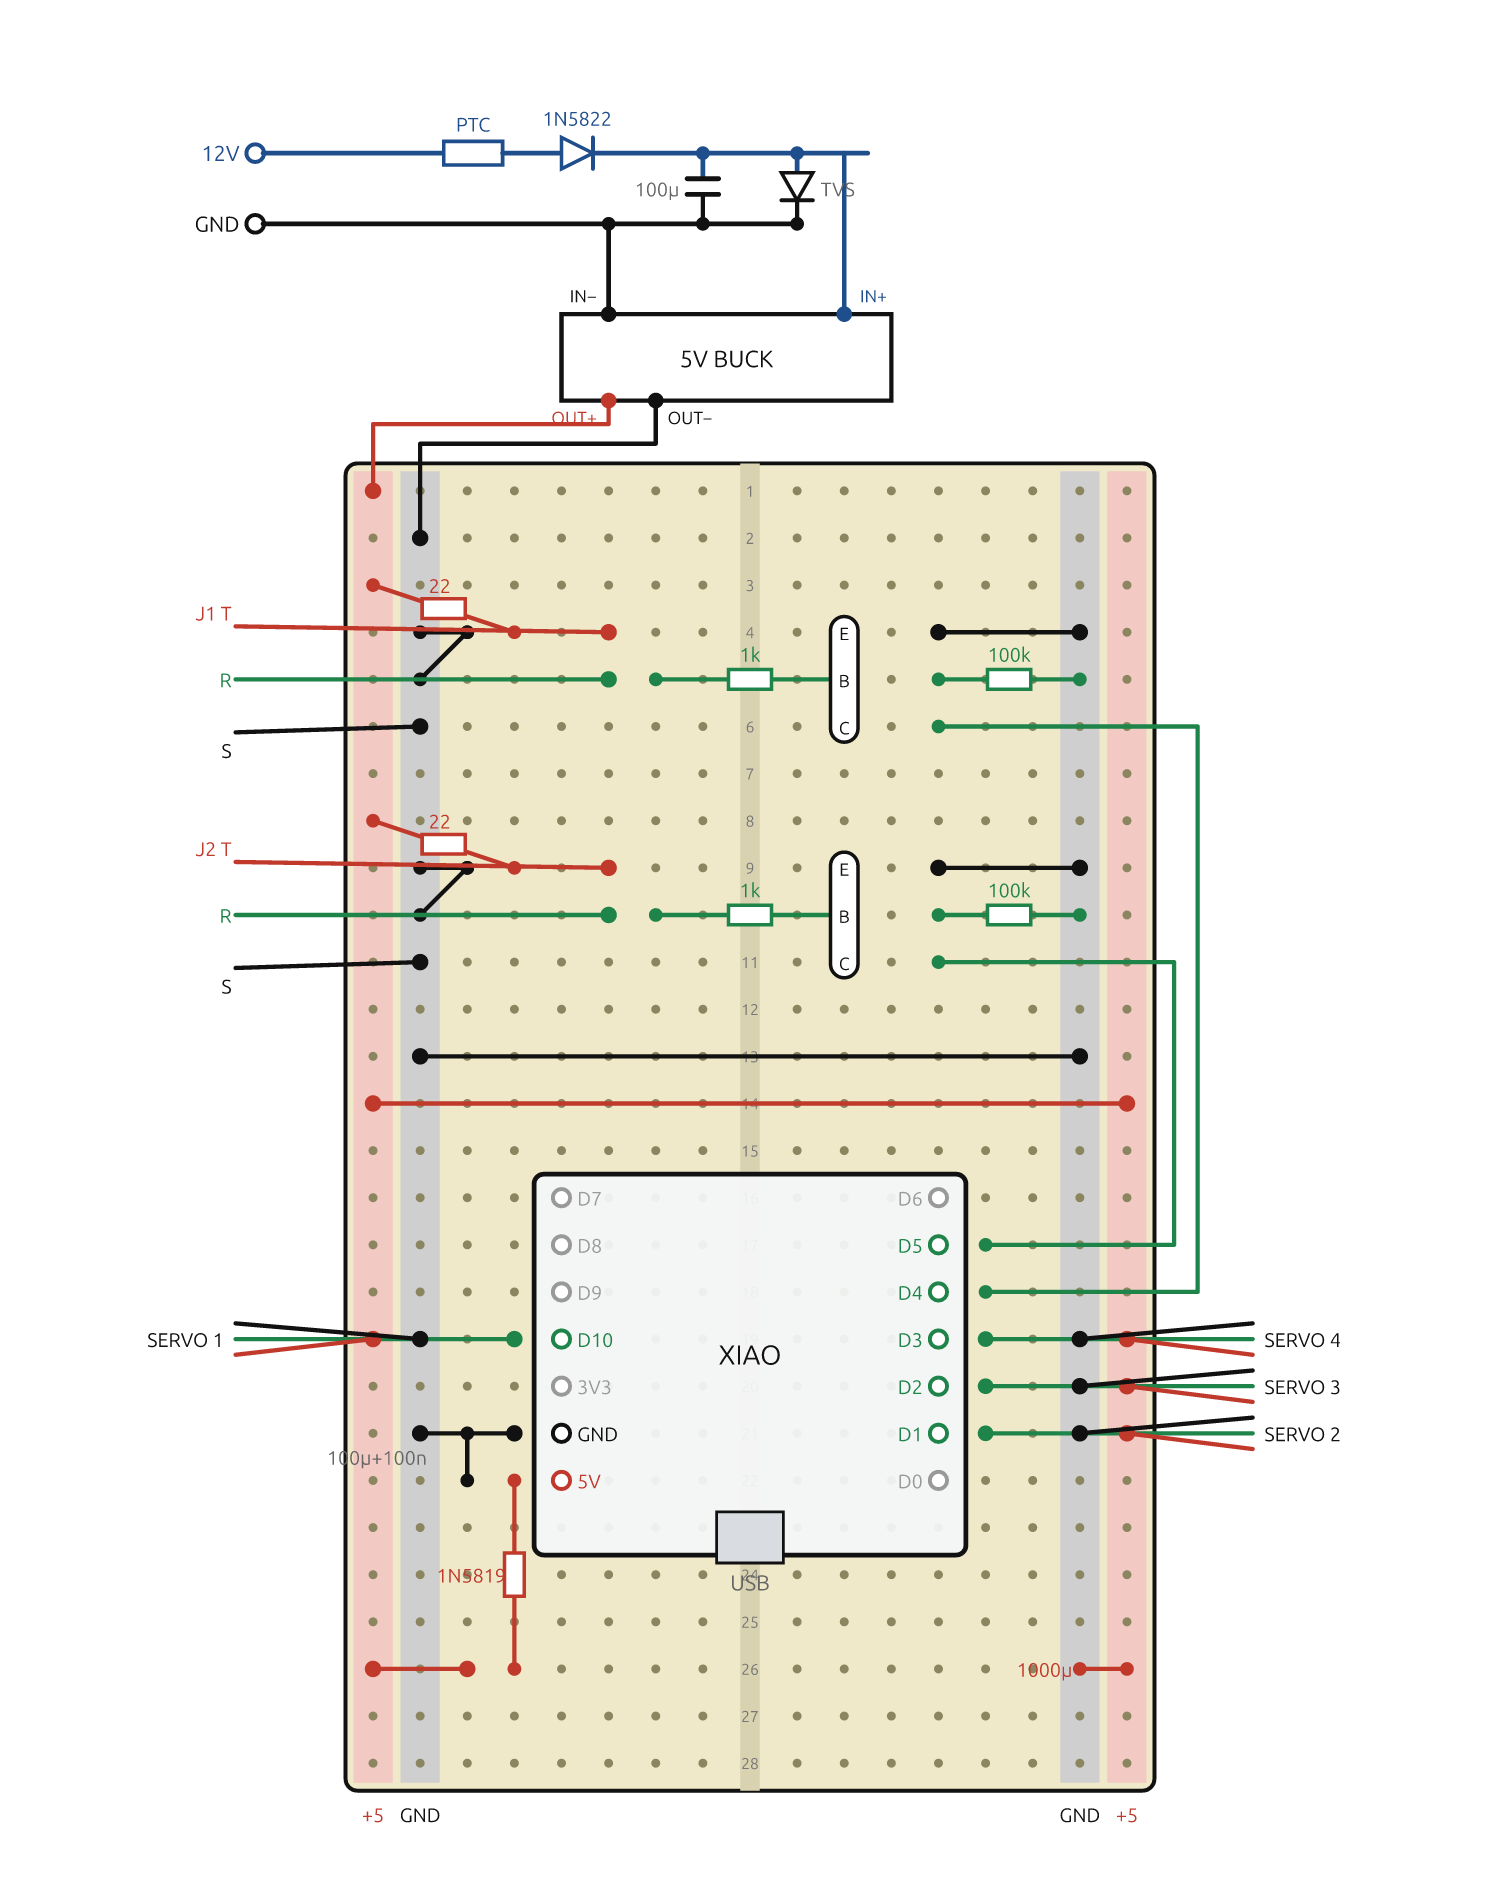
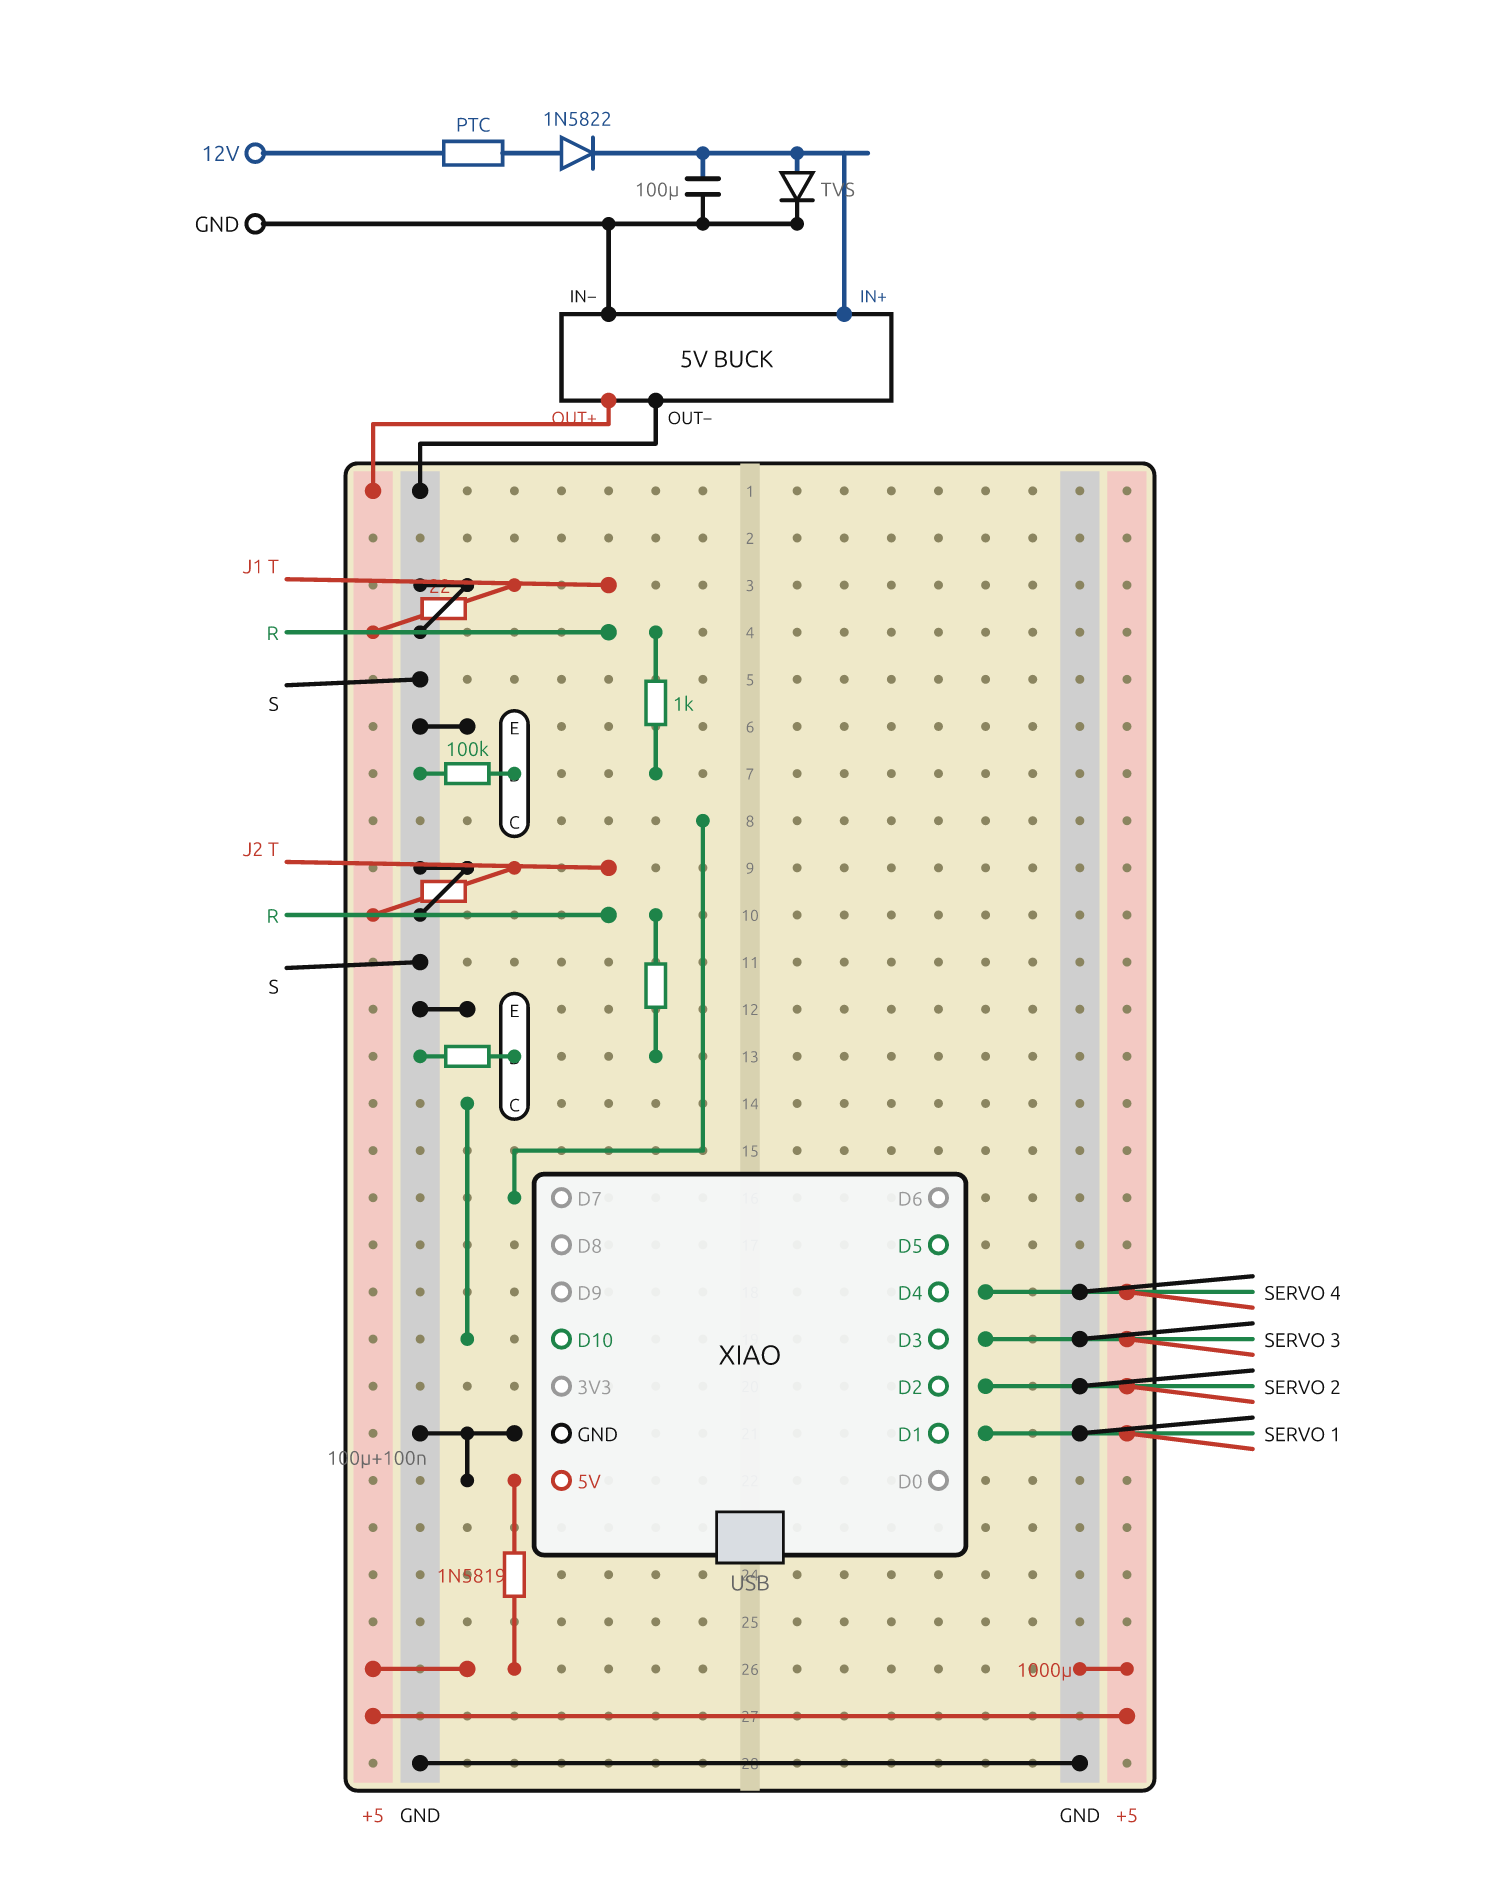
jaw: servos on D1..D4, sensors on D7 and D10 so each kind sits on its own edge; redraw the board layout

diff --git a/docs/08-servo-board.md b/docs/08-servo-board.md
@@ -5,7 +5,7 @@ suggestions to check against their datasheets, not tested parts. Measured figure
 and come from `docs/07-servo-s51.md` and the bench on 2026-11-15.
 
 The board carries a XIAO ESP32C3 running `firmware/jaw/` and up to **4 servos** (channels 1..4 on
-D10, D1, D2, D3). It is fed from a **12 V power brick or the TalentCell 12 V battery**, whichever
+D1, D2, D3, D4). It is fed from a **12 V power brick or the TalentCell 12 V battery**, whichever
 is available, and makes its own 5 V.
 
 ---
@@ -69,17 +69,18 @@ One **3-pin 0.1" male header per servo**, in the S51's own order so the servo pl
 
 | Channel | XIAO silkscreen | GPIO |
 |---|---|---|
-| 1 | D10 | GPIO10 |
-| 2 | D1 | GPIO3 |
-| 3 | D2 | GPIO4 |
-| 4 | D3 | GPIO5 |
+| 1 | D1 | GPIO3 |
+| 2 | D2 | GPIO4 |
+| 3 | D3 | GPIO5 |
+| 4 | D4 | GPIO6 |
 | *never* | D0, D8, D9 | GPIO2, 8, 9 — strapping, see CLAUDE.md |
 
 3.3 V signals drive the S51 directly (measured); no level shifter. A 100–330 Ω series resistor on
 each signal is optional protection. There are **no per-servo pull-downs or caps**: the pull-downs did not stop the boot twitch when tried, and the one bulk cap serves all four servos.
 
-D4 and D5 (GPIO6, 7) are the two sensor inputs (§7). D6/D7 are the UART pins and are left unused:
-the chip prints boot messages on one of them.
+D7 (GPIO20) and D10 (GPIO10) are the two sensor inputs (§7), on the opposite edge of the XIAO from the
+servos. D7 is the UART receive pin and is free because the board talks over USB. D5 and D6 are unused (D6 is
+the UART transmit pin and prints boot messages).
 
 ## 4. Before first power
 
@@ -137,7 +138,7 @@ before ordering.**
 
 ---
 
-## 7. Two sensor ports (D4, D5)
+## 7. Two sensor ports (D7, D10)
 
 Same port as the SFX Box's (`SFX box/sfx-box-wiring.md`, "Sensor daughter board"), so the same
 sensor plugs into either: **3.5 mm stereo jack, Tip = +5 V, Ring = signal, Sleeve = GND.** A Neumi
@@ -158,7 +159,7 @@ the same (n, state, seq). The bridge needs no change: it already prints anything
 tagged `jaw>`. `sens` reads the two inputs back (`sens 1=0 2=0`) and `st` carries `sens=00`.
 **Not done:** the SFX Box does not yet read unsolicited `ev` lines or offer them as triggers.
 
-Bench test without the circuit: the pins idle HIGH, so touching a wire from D4 or D5 to GND
+Bench test without the circuit: the pins idle HIGH, so touching a wire from D7 or D10 to GND
 looks like motion.
 
 Parts for the two ports (copied from the SFX Box's list, per port): 1 × 3.5 mm stereo jack, 1 ×
@@ -177,10 +178,11 @@ the layout is relative to the XIAO, so a column or two of difference only shifts
 - About 28 rows. Rows are numbered from the top in the drawing.
 - Rails: **inner strip (next to the holes) = GND, outer strip = +5 V**, on both sides.
 
-**Why the XIAO is turned so the USB end points at the bottom:** the signal pins D1–D5 then land on the right
-half, next to the right rail, with free holes beside each pin. D10, 5V and GND land on the left half next to
-the left rail. Rotate the whole board 180° in the box if the USB end should face elsewhere; the design is
-mirror-symmetric in what it needs.
+**Why the XIAO is turned so the USB end points at the bottom:** the four servo pins D1–D4 are on one edge of
+the XIAO and the two sensor pins D7 and D10 are on the other. Turned this way the servos land on the right
+half, beside the right rail, and the sensor circuits and jacks sit on the left half beside the left rail, so
+each side of the box has one kind of connector. Rotate the whole board 180° in the box if the USB end should
+face elsewhere; the design is mirror-symmetric in what it needs.
 
 **XIAO position:** left pins in left-half column 3, right pins in right-half column 10, rows 16–22. Holes
 at left columns 1–2 and right columns 11–12 stay free beside the pins. Rows above row 15 and below row 23
@@ -188,12 +190,12 @@ are free across both halves.
 
 | Rows | Left pin | Right pin |
 |---|---|---|
-| 16 | D7 (unused) | D6 (unused) |
-| 17 | D8 (avoid) | **D5** sensor 2 |
-| 18 | D9 (avoid) | **D4** sensor 1 |
-| 19 | **D10** servo 1 | **D3** servo 4 |
-| 20 | 3V3 (unused) | **D2** servo 3 |
-| 21 | GND | **D1** servo 2 |
+| 16 | **D7** sensor 1 | D6 (unused) |
+| 17 | D8 (avoid) | D5 (unused) |
+| 18 | D9 (avoid) | **D4** servo 4 |
+| 19 | **D10** sensor 2 | **D3** servo 3 |
+| 20 | 3V3 (unused) | **D2** servo 2 |
+| 21 | GND | **D1** servo 1 |
 | 22 | 5V | D0 (avoid) |
 
 ### Hole list (row, side-column; `L`/`R` = left/right half, rail = `L5 LG R5 RG`)
@@ -203,33 +205,34 @@ buck is the only thing between them: barrel jack + → PTC fuse → 1N5822 (band
 with the 100 µF 25 V and the TVS (P6KE15A, band to +) from that node to GND, and jack GND → buck IN−. Build
 it on the buck's own bit of board or wire it point to point. Nothing from this chain goes on the SB400 board.
 
-**5 V side, on the board** (rows 1–3 are now spare)
+**5 V side, on the board** (rows 1–2 are spare)
 
 | Part | From | To |
 |---|---|---|
-| Buck OUT+ / OUT− | L5 rail row 1 | LG rail row 2 |
-| Bridge GND | LG row 13 | RG row 13 |
-| Bridge +5 V | L5 row 14 | R5 row 14 |
+| Buck OUT+ / OUT− | L5 rail row 1 | LG rail row 1 |
+| Bridge +5 V (wire) | L5 rail row 27 | R5 rail row 27 |
+| Bridge GND (wire) | LG rail row 28 | RG rail row 28 |
 | 1000 µF 10 V+ (+ to outer rail) | R5 rail row 26 | RG rail row 26 |
 
 Bridge the rails with wire, not just the strips: four stalled servos draw about 1.9 A.
 
-**Sensor ports.** Same circuit twice. Port 1 uses rows 4–6 (base row 5); port 2 uses rows 9–11 (base row 10).
-Values below are for port 1; add 5 rows for port 2.
+**Sensor ports, all on the left half.** Same circuit twice. Port 1 uses rows 3–8 and goes to **D7**; port 2 uses
+rows 9–14 and goes to **D10**. Values below are for port 1; add 6 rows for port 2 (tip row 9, ring row 10, and so on).
 
 | Part | From | To |
 |---|---|---|
-| 22 Ω | L5 rail row 3 | L4 col 2 |
-| 4.7 µF (+ to the row) | L4 col 1 | LG rail row 4 |
-| 100 nF | L4 col 1 | LG rail row 5 |
-| Jack tip wire | L4 col 4 | |
-| Jack ring wire | L5 col 4 | |
-| Jack sleeve wire | LG rail row 6 | |
-| 1 kΩ (straddles the channel) | L5 col 5 | R5 col 8 |
-| 2N3904, flat face toward the left, standing in right col 9 | emitter R4, base R5, collector R6 | |
-| Emitter jumper | R4 col 10 | RG rail row 4 |
-| 100 kΩ | R5 col 10 | RG rail row 5 |
-| Collector wire (insulated, around the outside of the rails) | R6 col 10 | **D4** at R18 col 11 (port 2: R11 col 10 to **D5** at R17 col 11) |
+| 22 Ω | L5 rail row 4 | L row 3, col 2 |
+| 4.7 µF (+ to the row) | L3 col 1 | LG rail row 3 |
+| 100 nF | L3 col 1 | LG rail row 4 |
+| Jack tip wire | L3 col 4 | |
+| Jack ring wire | L4 col 4 | |
+| Jack sleeve wire | LG rail row 5 | |
+| 1 kΩ (lies along the column, 0.3–0.4") | L4 col 5 | L7 col 5 |
+| 2N3904, flat face toward the left, standing in col 3 | emitter L6, base L7, collector L8 | |
+| Emitter jumper | L6 col 1 | LG rail row 6 |
+| 100 kΩ | L7 col 2 | LG rail row 7 |
+| Collector wire (insulated, lies over the board) | L8 col 6, down col 6 to row 15, left along row 15 to col 2 | L16 col 2 (next to **D7**) |
+| Port 2 collector wire | L14 col 1, straight down col 1 | L19 col 1 (next to **D10**) |
 
 **XIAO power and servos**
 
@@ -239,9 +242,8 @@ Values below are for port 1; add 5 rows for port 2.
 | 1N5819 (band to the XIAO) | cathode L22 col 2 | anode L26 col 2 |
 | Anode jumper | L26 col 1 | L5 rail row 26 |
 | 100 µF (+ to row 22) and 100 nF | L22 col 1 | L21 col 1 |
-| Servo 1: signal / + / − | L19 col 2 / L5 rail row 19 / LG rail row 19 | |
-| Servos 2, 3, 4: signal | R21 col 11 / R20 col 11 / R19 col 11 | |
-| Servos 2, 3, 4: + / − | R5 rail / RG rail, same row as the signal | |
+| Servos 1, 2, 3, 4: signal | R21 / R20 / R19 / R18, col 11 | |
+| Servos 1–4: + / − | R5 rail / RG rail, same row as the signal | |
 
 **Soldering order that keeps things reachable:** rails and bridge wires, then the two sensor circuits, then the diode and caps beside the XIAO, then the XIAO last (it covers the
 holes under it). Meter each rail for continuity to the far end, and meter across the channel on a spare row

diff --git a/docs/07-servo-s51.md b/docs/07-servo-s51.md
@@ -13,7 +13,7 @@ Another project that has an S51 can link or copy it as it stands.
 
 | Wire colour | Function | Goes to |
 |---|---|---|
-| **Orange** | Signal | a GPIO (on the jaw: XIAO **D10**) |
+| **Orange** | Signal | a GPIO (on the jaw board: XIAO **D1**, channel 1) |
 | **Red** | Positive (+) | the servo's own 5 V supply |
 | **Brown** | Negative (−) | supply GND, **and** the controller's GND |
 
@@ -188,4 +188,4 @@ signal input draws almost nothing; the supply and the 1000 µF at the connector 
 `bar.ino` (strip data); a servo needs `jaw.ino`. With `bar.ino` running a servo jitters; with
 `jaw.ino` running a strip flickers. Neither is damaged, but do not leave the wrong one plugged in.
 The bridge also knows a board by its radio address, so decide which prop that board stands for.
-One servo per connector, on channel 1 (D10); channels 2..4 are on other pins the JST does not reach.
+One servo per connector. The bar's own D10 feeds it; the jaw board has no JST.

diff --git a/firmware/README.md b/firmware/README.md
@@ -377,8 +377,8 @@ current (459 mA measured, `docs/07-servo-s51.md`) until told to move.
 
 ### Several servos on one board
 
-One board is one prop; each servo is a **channel** (`channels <1..4>`, default 1). Channel 1 is on
-D10, channels 2..4 on D1, D2, D3. Un-prefixed commands mean channel 1, and the single-servo
+One board is one prop; each servo is a **channel** (`channels <1..4>`, default 1). Channels 1..4 are on
+D1, D2, D3, D4. Un-prefixed commands mean channel 1, and the single-servo
 `show`/`st` lines are unchanged, so a box that knows one servo keeps working.
 
 A channel's **mode** is `speech` (follows the box's track) or `manual` (goes to a numbered position

diff --git a/docs/06-jaw-plan.md b/docs/06-jaw-plan.md
@@ -292,7 +292,7 @@ channel and slot NUMBERS only.
 | `auto <ch> on\|off` | Move on its own → `ok auto ...`; `refused ...` on a speech channel |
 | `stop` | releases the TRACK only (see below) |
 | `stop all` | also ends every channel's `auto` |
-| `channels <n>` | how many servos the board drives (1..4; channel 1 on D10, 2..4 on D1..D3) |
+| `channels <n>` | how many servos the board drives (1..4; channels 1..4 on D1..D4) |
 
 - A cue/track drives only speech channels.
 - **Dead-man:** `auto on` expires after 120 s unless repeated (the box re-sends every 60 s while
